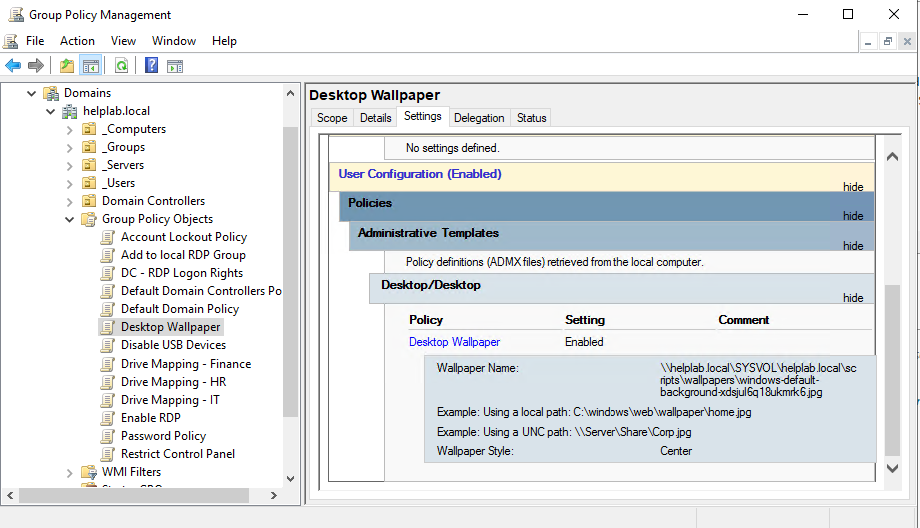
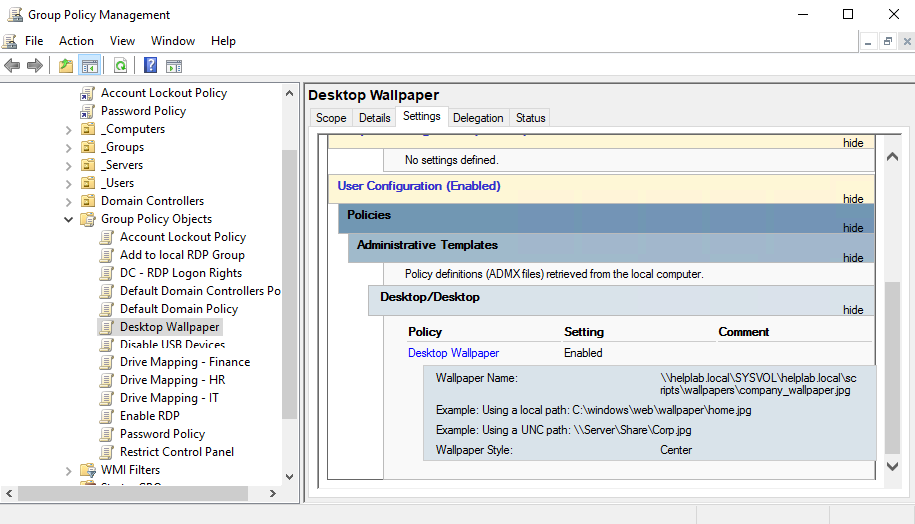
updated README.md template with setup instructions

Changed region(s): [[0.0, 0.0, 1.0, 1.0], [0.9486, 0.0, 0.9792, 0.0305]]

diff --git a/README.md b/README.md
@@ -34,7 +34,7 @@
 - **Domain Controller IP:** 172.29.144.10 (Static)
 - **Client Workstation IP:** 172.29.144.20 (Static)
 - **Host Machine IP:** 172.29.144.1
-- **Domain Name:** [yourdomain.local]
+- **Domain Name:** HELPLAB.local
 
 ### Hardware & Virtualization Specifications
 
@@ -43,22 +43,22 @@
 - **CPU:** 4 cores / 8 threads
 - **Storage:** 1 TB SSD
 - **Hypervisor:** Microsoft Hyper-V
-- **Operating System:** [Windows 10/11 Pro]
+- **Operating System:** Windows 11 Pro
 
 #### Domain Controller VM (Windows Server 2022)
-- **Hostname:** [DC01]
+- **Hostname:** WIN-MEUJ3KPDEG5
 - **Operating System:** Windows Server 2022 Standard
 - **RAM:** 4 GB
-- **vCPU:** [2 cores]
+- **vCPU:** 4 cores
 - **Storage:** 60 GB virtual disk
 - **Network:** Hyper-V Default Switch
 - **IP Address:** 172.29.144.10/20 (Static, no gateway)
 
 #### Client Workstation VM (Windows 11 Pro)
-- **Hostname:** [CLIENT01]
+- **Hostname:** WIN11-CLI-01
 - **Operating System:** Windows 11 Pro
 - **RAM:** 4 GB
-- **vCPU:** [2 cores]
+- **vCPU:** 4 cores
 - **Storage:** 60 GB virtual disk
 - **Network:** Hyper-V Default Switch
 - **IP Address:** 172.29.144.20/20 (Static, no gateway)
@@ -78,23 +78,30 @@ The Domain Controller hosts multiple roles:
 ### 1. Installing Active Directory Domain Services
 
 #### Step 1: Add the AD DS Role
-![Install AD DS - Server Manager](Setup_Screenshots/Install_AD_01.png)
+![Open Server Manager](Setup_Screenshots/Install_AD_01.png)
 *Open Server Manager and click "Add roles and features"*
 
-![Select Role-based Installation](Setup_Screenshots/Install_AD_02.png)
-*Choose "Role-based or feature-based installation" and select your server*
+![Click Manage](Setup_Screenshots/Install_AD_02.png)
+*Click Manage in the upper right-hand corner and select "Add roles and features"*
 
-![Select AD DS Role](Setup_Screenshots/Install_AD_03.png)
-*Check "Active Directory Domain Services" and add required features*
+![Before you Begin](Setup_Screenshots/Install_AD_03.png)
+*Select Next*
 
-![Confirm Installation](Setup_Screenshots/Install_AD_04.png)
-*Review selections and click "Install"*
+![Installation Type](Setup_Screenshots/Install_AD_04.png)
+*Select "Role-based or feature-based installation" and click "Next"*
 
-![Installation Progress](Setup_Screenshots/Install_AD_05.png)
-*Wait for the installation to complete*
+![Server Selection](Setup_Screenshots/Install_AD_05.png)
+*Click "Select a server from server pool" and select intended server from server pool. Click "Next"*
 
-![Installation Complete](Setup_Screenshots/Install_AD_06.png)
-*Installation successful - proceed to DC promotion*
+![Server Roles](Setup_Screenshots/Install_AD_06.png)
+*Ensure both roles: "Active Directory Domain Services" and "DNS Server" are checked. Click "Next"*
+
+![Features](Setup_Screenshots/Install_AD_07.png)
+*Ensure that "Group Policy Management" is checked. Click "Next".*
+
+#### Final Steps:
+*Confirm the installation selections and click "Install".*
+*Once installation is successful, proceed to DC promotion.*
 
 ---
 
@@ -102,7 +109,7 @@ The Domain Controller hosts multiple roles:
 
 #### Step 1: Post-Deployment Configuration
 ![Promote to DC - Notification](Setup_Screenshots/Promote_DC_01.png)
-*Click the notification flag and select "Promote this server to a domain controller"*
+*Select "Promote this server to a domain controller"*
 
 #### Step 2: Deployment Configuration
 ![New Forest Configuration](Setup_Screenshots/Promote_DC_02.png)
@@ -125,25 +132,26 @@ The Domain Controller hosts multiple roles:
 To configure the DC as the primary DNS server for the network:
 
 ![Control Panel - Network Connections](Setup_Screenshots/DNS_setup_01.png)
-*Navigate to Control Panel > Network and Internet > Network Connections*
+*Navigate to Control Panel > Network and Internet*
 
 ![Adapter Properties](Setup_Screenshots/DNS_setup_02.png)
-*Right-click the network adapter and select "Properties"*
+*Navigate to Network and Sharing Center*
 
 ![IPv4 Properties](Setup_Screenshots/DNS_setup_03.png)
-*Select "Internet Protocol Version 4 (TCP/IPv4)" and click "Properties"*
+*Select "Change adapter settings" in the side panel*
 
 ![DNS Server Settings](Setup_Screenshots/DNS_setup_04.png)
-*Set "Preferred DNS server" to the DC's IP address (172.29.144.10)*
+*Double-click "Ethernet"*
 
 ![Verify DNS Settings](Setup_Screenshots/DNS_setup_05.png)
-*Click "OK" to apply settings*
+*Select "Properties"*
 
 ![Test DNS Resolution](Setup_Screenshots/DNS_setup_06.png)
-*Open Command Prompt and run `nslookup` to verify DNS resolution*
+*Select "Internet Protocol Version 4 (TCP/IPv4)" and click "Properties"*
 
 ![DNS Manager Console](Setup_Screenshots/DNS_setup_07.png)
-*Open DNS Manager to verify forward and reverse lookup zones*
+*Enter in desired static ip address and subnet mask. Leave default gateway empty. Set preferred DNS server to 127.0.0.1 .*
+*Click "OK" and run `nslookup` in command prompt to verify DNS resolution*
 
 ---
 
@@ -151,48 +159,38 @@ To configure the DC as the primary DNS server for the network:
 
 ### Organizational Unit (OU) Design
 
-![OU Structure Diagram](images/AD_User_Computers_diagram.png)
+![OU Structure Diagram](AD_User_Computers_diagram.png)
 
 #### Design Rationale
-[Explain your OU structure here. Example:]
 
-The OU structure is designed to mirror a typical small business organization:
+The OU structure is designed to mirror a typical small business organization.
+Three-Tier Organizational Structure:
+1. _Users OU
+- Contains all user accounts organized by department.
+- Enables department specific user configurations (e.g. Drive Mapping)
+2. _Groups OU
+- Subdivided into DomainLocal OU and Global OU.
+- Domain Local Groups (DL_*): Used to assign permissions to resources (e.g. file shares)
+- Global Groups (GG_*): Contains user members organized by department/function.
+3. _Computers OU
+- Contains all workstations organized by department.
+- Enables department specific computer configurations (e.g. Security Settings)
 
-- **Domain Controllers** - Default OU for domain controllers
-- **Workstations** - All client computers
-  - **IT Department** - IT staff workstations
-  - **HR Department** - Human Resources workstations
-  - **Finance Department** - Finance team workstations
-- **Users** - All user accounts
-  - **IT Staff** - IT department users
-  - **HR Staff** - Human Resources users
-  - **Finance Staff** - Finance department users
-  - **Disabled Users** - Deactivated accounts
-
-This structure allows for granular Group Policy application and easier delegation of administrative tasks by department.
+This structure avoids directly assigning permissions to individual users and provides a scalable, maintainable approach to access management.
 
 ---
 
 ### Group Architecture
 
-![Group Architecture Diagram](images/Group_Architecture_Diagram.png)
+![Group Architecture Diagram](Group_Architecture_Diagram.png)
 
 #### Design Rationale
-[Explain your group strategy here. Example:]
+This implements the AGDLP (Account, Global, Domain Local, Permission) best practice:
+- Accounts (users) -> added to -> Global groups -> nested in -> Domain Local groups -> assigned Permissions.
+- Each department has access to its own shared drive, with the exception of the sales department.
+- The IT admin can access the shared drive of the IT department and has permission to remote access servers whereas IT support users may only access the shared drive.
 
-Groups follow the AGDLP (Account, Global, Domain Local, Permission) best practice:
-
-**Security Groups:**
-- **Domain Admins** - Full administrative access
-- **IT_Department** - IT staff with elevated permissions
-- **HR_Department** - HR users with access to HR resources
-- **Finance_Department** - Finance users with access to financial data
-- **All_Users** - Domain-wide policies for all users
-
-**Distribution Groups:**
-- **Company_All** - Email distribution for company-wide announcements
-
-This structure enables role-based access control and simplifies permission management.
+This approach simplifies permission management and scales well as the organization grows.
 
 ---
 
@@ -220,11 +218,10 @@ This structure enables role-based access control and simplifies permission manag
 **Purpose:** Enforce strong password requirements across the domain
 
 **Configuration:**
-- **Minimum password length:** 8 characters
+- **Minimum password length:** 12 characters
 - **Password complexity requirements:** Enabled
 - **Maximum password age:** 90 days
-- **Minimum password age:** 1 day
-- **Password history:** 5 passwords remembered
+- **Minimum password age:** 30 days
 
 **Applied to:** Default Domain Policy (all domain users)
 
@@ -234,13 +231,13 @@ This structure enables role-based access control and simplifies permission manag
 
 ![Desktop Wallpaper Policy](Setup_Screenshots/desktop_wallpaper_policy.png)
 
-**Purpose:** Standardize desktop appearance and display company branding
+**Purpose:** Standardize desktop appearance.
 
 **Configuration:**
-- **Wallpaper path:** \\\\DC01\\SYSVOL\\[domain]\\Wallpaper\\company_wallpaper.jpg
-- **Wallpaper style:** Fill
+- **Wallpaper path:** \\\\helplab.local\\SYSVOL\\helplab.local\\scripts\\wallpapers\\company_wallpaper.jpg
+- **Wallpaper style:** Center
 
-**Applied to:** All Users OU
+**Applied to:** _Users OU
 
 ---
 
@@ -251,10 +248,9 @@ This structure enables role-based access control and simplifies permission manag
 **Purpose:** Prevent data exfiltration and malware introduction via USB drives
 
 **Configuration:**
-- **Removable Disks: Deny read access:** Enabled
-- **Removable Disks: Deny write access:** Enabled
+- **All Removable Storage Classes: Deny all access** Enabled
 
-**Applied to:** HR and Finance OUs (sensitive data departments)
+**Applied to:** HR, Finance, and Sales OUs
 
 **Note:** IT department is excluded from this policy to allow administrative tasks.
 
@@ -268,9 +264,8 @@ This structure enables role-based access control and simplifies permission manag
 
 **Configuration:**
 - **Prohibit access to Control Panel and PC Settings:** Enabled
-- **Hide specified Control Panel items:** Display, Network Connections, System
 
-**Applied to:** Standard Users (non-IT staff)
+**Applied to:** HR, Finance, and Sales OUs (non-IT staff)
 
 ---
 
@@ -473,51 +468,11 @@ gpresult /h C:\report.html
 - Troubleshot common AD issues using built-in tools (gpresult, nslookup, etc.)
 
 ### Challenges Encountered
-- [Describe problems you faced and how you solved them]
+- Encountered issues with remote access due to installing portable version of OpenSSH.
 - Initial DNS configuration issues causing domain join failures - resolved by properly configuring DNS forwarders
-- Understanding GPO inheritance and precedence - used GPMC to visualize policy application
-- Managing static IPs without DHCP in lab environment - created documentation for IP assignments
-
-### Future Improvements
-- [What would you do differently or add next?]
-- Implement DHCP server role for dynamic IP assignment
-- Add second domain controller for redundancy and replication testing
-- Set up certificate services for SSL/TLS certificates
-- Create PowerShell scripts to automate user provisioning
-- Implement backup and disaster recovery procedures
-- Add additional client workstations to simulate larger environment
-
-### Real-World Applications
-- [How does this relate to actual IT work?]
-- User account management is a daily helpdesk task in enterprise environments
-- Group Policy management is critical for maintaining security and compliance standards
-- Troubleshooting domain connectivity issues mirrors real-world scenarios
-- Documentation practices developed here apply to professional IT operations
 
 ---
 
 ## Conclusion
 
 This Active Directory homelab provided hands-on experience with core identity and access management concepts used in enterprise environments. The combination of setup, configuration, and simulated helpdesk scenarios demonstrates both technical knowledge and practical troubleshooting skills essential for IT support roles.
-
-**Project Duration:** [X weeks/months]
-
-**Total Time Invested:** [X hours]
-
----
-
-## References & Resources
-
-- [Microsoft Active Directory Documentation](https://docs.microsoft.com/en-us/windows-server/identity/ad-ds/)
-- [Group Policy Planning and Deployment Guide](https://docs.microsoft.com/en-us/windows-server/identity/ad-ds/plan/group-policy-planning-and-deployment)
-- [Active Directory Best Practices](https://docs.microsoft.com/en-us/windows-server/identity/ad-ds/plan/security-best-practices/)
-
----
-
-**Author:** [Your Name]
-
-**Date:** [Project Completion Date]
-
-**GitHub Repository:** [Link to your repository]
-
-**Contact:** [Your email or LinkedIn]
